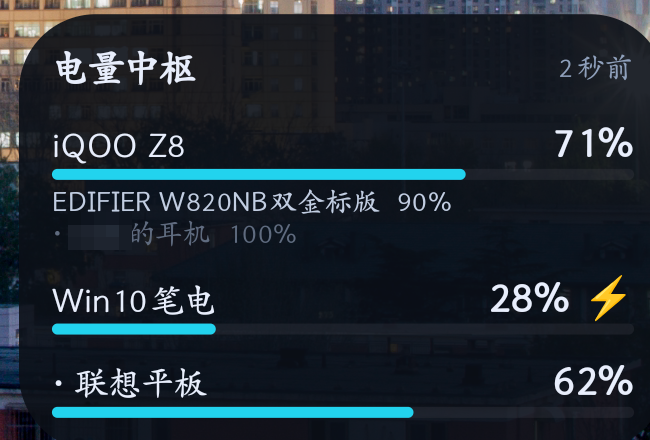
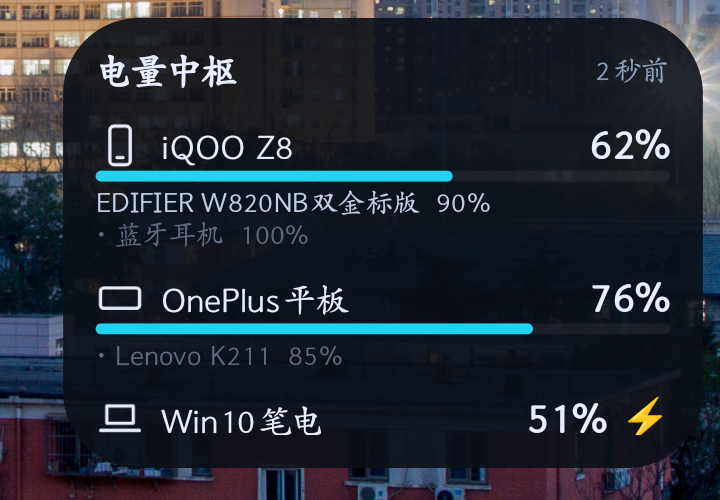
feat: 展开态与安卓小组件加类型图标；外设别名；保活教程；启动脚本幂等

Changed region(s): [[0.0, 0.0, 1.0, 1.0]]

diff --git a/android/probe/src/hub/probe/HubWidget.java b/android/probe/src/hub/probe/HubWidget.java
@@ -130,6 +130,14 @@ public class HubWidget extends AppWidgetProvider {
                 }
                 if (nameId != 0) rv.setTextColor(nameId, online ? 0xFFE8EEFC : 0xFF5F6B7F);
                 if (pctId != 0) rv.setTextColor(pctId, online ? 0xFFE8EEFC : 0xFF5F6B7F);
+
+                int icoId = rid(ctx, "w_ico" + i, "id");
+                if (icoId != 0) {
+                    String ic = iconName(name, -1);
+                    int res = ctx.getResources().getIdentifier(ic, "drawable", ctx.getPackageName());
+                    if (res != 0) rv.setImageViewResource(icoId, res);
+                    rv.setInt(icoId, "setColorFilter", online ? 0xFFE8EEFC : 0xFF5F6B7F);
+                }
                 if (barId != 0) {
                     rv.setViewVisibility(barId, android.view.View.VISIBLE);
                     rv.setProgressBar(barId, 100, Math.max(0, pct), false);
@@ -162,6 +170,37 @@ public class HubWidget extends AppWidgetProvider {
             }
             mgr.updateAppWidget(id, rv);
         }
+    }
+
+    private static String iconName(String name, int cls) {
+        int major = cls > 0 ? (cls & 0x1F00) : 0;
+        int minor = cls > 0 ? (cls & 0x00FC) : 0;
+        String s = name == null ? "" : name.toLowerCase();
+
+        if (major == 0x0500) {
+            if (minor == 0x40) return "ic_kb";
+            if (minor == 0x80) return "ic_mouse";
+            if (minor == 0xC0) return "ic_kb";
+        }
+        if (major == 0x0400) {
+            if (s.contains("buds") || s.contains("tws") || s.contains("豆")
+                    || s.contains("耳机") || s.contains("anc")) return "ic_earbuds";
+            return "ic_headphone";
+        }
+        if (major == 0x0100) return "ic_laptop";
+        if (major == 0x0200) return "ic_phone";
+
+        if (s.contains("平板") || s.contains("pad") || s.contains("tablet")) return "ic_tablet";
+        if (s.contains("笔电") || s.contains("笔记本") || s.contains("laptop")
+                || s.contains("win10") || s.contains("win11") || s.contains("电脑")) return "ic_laptop";
+        if (s.contains("iqoo") || s.contains("phone") || s.contains("手机")) return "ic_phone";
+        if (s.contains("耳机") || s.contains("buds") || s.contains("airpods")) return "ic_earbuds";
+        if (s.contains("头戴")) return "ic_headphone";
+        if (s.contains("键盘") || s.contains("keyboard")) return "ic_kb";
+        if (s.contains("鼠标") || s.contains("mouse")) return "ic_mouse";
+        if (s.matches(".*\\bk\\d{3}\\b.*")) return "ic_kb";
+        if (s.matches(".*\\bm\\d{3}\\b.*")) return "ic_mouse";
+        return "ic_generic";
     }
 
     private static String ago(long sec) {

diff --git a/ui/pc_widget.py b/ui/pc_widget.py
@@ -567,9 +567,11 @@ class Widget:
         b = n.get("battery") or {}
         pct, chg, ac = b.get("pct"), b.get("charging"), b.get("ac")
 
-        c.create_oval(x1 + self.X(11), y + self.X(10), x1 + self.X(17), y + self.X(16),
-                      fill=DIM if off else GREEN, outline="")
-        c.create_text(x1 + self.X(22), y + self.X(13), anchor="w",
+        # 设备类型图标（在线亮、离线灰）
+        draw_icon(c, icon_kind(n.get("name"), n.get("node")),
+                  x1 + self.X(10), y + self.X(13), self.X(13),
+                  DIM if off else TXT, max(1, self.X(1.1)))
+        c.create_text(x1 + self.X(29), y + self.X(13), anchor="w",
                       text=n.get("name", n.get("node")),
                       fill=DIM if off else TXT, font=self.F(11))
         state = "离线" if off else ("充电中" if chg else ("已充满" if ac else "放电中"))
@@ -599,9 +601,12 @@ class Widget:
         for p in per:
             pp = p.get("pct")
             conn = p.get("connected", True)
-            c.create_text(bx1, py, anchor="nw",
+            icol = PER if conn else PER_OFF
+            draw_icon(c, icon_kind(p.get("name"), p.get("id"), p.get("cls", -1)),
+                      bx1, py + self.X(6), self.X(10.5), icol, max(1, self.X(1)))
+            c.create_text(bx1 + self.X(15), py, anchor="nw",
                           text=("· " if not conn else "") + p.get("name", "?"),
-                          fill=PER if conn else PER_OFF, font=self.F(10))
+                          fill=icol, font=self.F(10))
             c.create_text(bx2, py, anchor="ne",
                           text="—" if pp is None else f"{pp}%",
                           fill=PER_VAL if conn else PER_OFF,

diff --git a/hub/hub.py b/hub/hub.py
@@ -49,11 +49,15 @@ DEFAULT_CONF = {
              "username": "", "password": ""},
     # 节点显示名覆盖：设备自己报的机型名太长时，在这里改成短名
     "aliases": {},
+    # 外设显示名覆盖：按外设 id（MAC 去掉冒号）改名，例如 {"6c1629715c35": "蓝牙耳机"}
+    "periph_aliases": {},
 }
 
 NODES: dict[str, dict] = {}
 # 节点显示名覆盖（config.json 的 aliases）
 ALIASES: dict[str, str] = {}
+# 外设显示名覆盖（config.json 的 periph_aliases）
+PERIPH_ALIASES: dict[str, str] = {}
 # 外设注册表：id -> {id,name,pct,connected,node,seen}
 # 规则：谁最后把它报成"已连接"，它就固定挂在那台设备下面（耳机在手机/平板间切换时自动搬家）
 PERIPH: dict[str, dict] = {}
@@ -198,7 +202,8 @@ def snapshot_locked() -> dict:
         if age > 7 * 86400 and not p.get("connected"):
             continue
         per_by_node.setdefault(p.get("node", ""), []).append({
-            "id": pid, "name": p.get("name", pid), "pct": p.get("pct"),
+            "id": pid, "name": PERIPH_ALIASES.get(pid) or p.get("name", pid),
+            "pct": p.get("pct"),
             "cls": p.get("cls", -1),
             "connected": bool(p.get("connected")), "age_sec": age,
         })
@@ -400,8 +405,9 @@ def main() -> int:
         return 0
 
     conf = load_conf(args.config)
-    global ALIASES
+    global ALIASES, PERIPH_ALIASES
     ALIASES = dict(conf.get("aliases") or {})
+    PERIPH_ALIASES = dict(conf.get("periph_aliases") or {})
     node = conf["node"]
     Handler.conf = conf
     load_store()

diff --git a/docs/keepalive.md b/docs/keepalive.md
@@ -1,0 +1,121 @@
+# 保活教程（Android）
+
+目标：让「电量中枢」在息屏、清理后台、重启之后**自动继续上报**。
+
+前台服务只是及格线。国产 ROM 会把前台服务也一起冻结，必须手动开白名单。
+
+---
+
+## 一、先理解为什么会被杀
+
+| 机制 | 表现 |
+|---|---|
+| 电池优化（Doze） | 息屏几分钟后网络被掐，`age_sec` 一直涨 |
+| 后台冻结 | 进程还在，但不再执行定时任务 |
+| 自启动拦截 | 重启后服务根本没起来 |
+| 一键清理 | 从最近任务划掉，进程被杀且不再自启 |
+
+前三个靠白名单解决，最后一个靠"锁定最近任务"。
+
+---
+
+## 二、通用四件套（所有国产 ROM 都有对应项）
+
+1. **允许自启动**
+2. **允许后台运行高耗电**
+3. **电池优化设为"不受限制"**
+4. **在最近任务里锁定卡片**
+
+---
+
+## 三、分机型路径
+
+### iQOO / vivo（OriginOS，实测 Android 15）
+
+| 步骤 | 路径 |
+|---|---|
+| 1. 自启动 | `i管家` → 应用管理 → 自启动 → 找到「电量中枢」→ 打开 |
+| 2. 后台高耗电 | 设置 → 电池 → 后台耗电管理 → 电量中枢 → **允许后台高耗电** |
+| 3. 电池优化 | 设置 → 应用 → 电量中枢 → 电池 → **不受限制** |
+| 4. 锁定任务 | 打开「最近任务」→ 长按（或下拉）电量中枢的卡片 → 点锁图标 |
+
+> OriginOS 的「i管家」是独立 App，权限和系统设置分开管，**两个地方都要设**。
+
+### OnePlus / OPPO（OxygenOS，实测 Android 16）
+
+| 步骤 | 路径 |
+|---|---|
+| 1. 自启动 | 设置 → 应用 → 自启动管理 → 电量中枢 → 打开 |
+| 2. 后台运行 | 设置 → 电池 → 应用耗电管理 → 电量中枢 → **允许后台运行** |
+| 3. 电池优化 | 同上 → 「智能省电」里把它排除 |
+| 4. 锁定任务 | 最近任务 → 卡片右上角 ⋮ → 锁定 |
+
+### 小米 / 红米（HyperOS）
+
+`设置 → 应用设置 → 应用管理 → 电量中枢 → 省电策略 → 无限制`
++ `自启动` 打开
++ 最近任务下拉卡片锁定
+
+### 华为 / 荣耀
+
+`设置 → 应用 → 电量中枢 → 耗电详情 → 应用启动管理 → 改为「手动管理」，三项全开`
+
+---
+
+## 四、开发者选项里的两个坑
+
+| 设置 | 必须 | 原因 |
+|---|---|---|
+| 「不保留活动」 | **关闭** | 打开后每次切后台都销毁 Activity |
+| 「后台进程限制」 | **标准** | 设成"最多 1 个进程"会直接把服务挤掉 |
+
+---
+
+## 五、验证是否真的保住了
+
+**方法一：看时间戳**
+
+在电脑上打开 `http://127.0.0.1:18080/`，看对应设备卡片上的「更新于 X 秒前」。
+
+- 正常：息屏 5 分钟后，`age_sec` 应该 **< 60 秒**（每 15 秒上报一次）
+- 被杀：`age_sec` 会一直涨到几百秒
+
+**方法二：看通知栏**
+
+服务活着时，通知栏常驻一条「电量中枢 · 本机 XX% / 外设 N 台」。这条消失就是被杀了。
+
+**方法三：重启手机**
+
+重启后 1 分钟内，看面板上该设备是否自动回到"在线"。
+
+---
+
+## 六、系统更新后必须复查
+
+大版本更新（尤其 OriginOS/OxygenOS）**会把第三方 App 的白名单重置**。
+
+更新完请重做第三节的第 1、2 条，其余一般保留。
+
+---
+
+## 七、症状对照表
+
+| 症状 | 最可能的原因 |
+|---|---|
+| 息屏几分钟后数据不动，亮屏立刻恢复 | 电池优化没设"不受限制" |
+| 重启后完全没数据，手动打开 App 才恢复 | 自启动 / 开机自启没开，或 `BOOT_COMPLETED` 被拦 |
+| 从最近任务划掉后再也不上报 | 没锁定卡片 |
+| 通知栏常驻通知消失 | 服务被系统杀了；检查是否被"一键加速"清掉 |
+| 装完 APK 后不更新 | 覆盖安装会杀进程；本项目已用 `MY_PACKAGE_REPLACED` 自启，若仍不更新说明自启动被拦 |
+
+---
+
+## 八、本项目已做的（代码层）
+
+- `foregroundServiceType="connectedDevice"` 前台服务 + 常驻低优先级通知
+- `START_STICKY`：被系统杀死后自动重建
+- `BOOT_COMPLETED`：开机自启
+- `MY_PACKAGE_REPLACED`：**覆盖安装后自启**（`START_STICKY` 救不了这个场景）
+- 上报心跳 10 分钟，中枢 30 分钟收不到就判离线（方便你发现它死了）
+
+代码只能做到这里，剩下的必须靠上面的白名单。

diff --git a/README.md b/README.md
@@ -94,7 +94,9 @@
 ### 6. 节点识别
 
 - 节点 id 由机型自动生成（`Build.MODEL`），所以**同一个 APK** 装到手机和平板不会互相覆盖；
-- 想改名不用重装：`config.json` 里 `"aliases": {"opd2513": "平板"}`。
+- 想改名不用重装：`config.json` 里
+  - `"aliases": {"opd2513": "平板"}` —— 改**设备**名
+  - `"periph_aliases": {"6c1629715c35": "蓝牙耳机"}` —— 改**外设**名（键是 MAC 去掉冒号）
 
 ### 7. 网络
 
@@ -109,6 +111,7 @@
 **PC 悬浮窗**（`ui/pc_widget.py`）
 
 - 无边框、置顶、半透明，**不占任务栏**（`overrideredirect` + `-toolwindow`，Alt+Tab 里也不出现）
+- 设备名和外设名前都有**类型图标**（手机/笔记本/平板/头戴/豆式/键盘/鼠标），在线亮、离线灰
 - 右上角 `─` 折叠成一条 30px 横条；`✕` 完全退出
 - 折叠条只显示**图标 + 电量**，按设备分组，组间有分隔线
 - 拖动移动，位置存 `ui/window.json`
@@ -118,7 +121,7 @@
 
 **Android 小组件**（`RemoteViews`）
 
-- 固定 3 行（手机 / 平板 / 电脑），每行"名字 + 百分比 + 进度条"，下面一行小字列外设
+- 固定 3 行（手机 / 平板 / 电脑），每行"**类型图标** + 名字 + 百分比 + 进度条"，下面一行小字列外设
 - 圆角引用系统的 `system_app_widget_background_radius`，和系统小组件一致
 - 断开的外设整行变灰；离线设备整行变灰 + `·` 前缀
 - 点一下打开网页面板
@@ -132,7 +135,8 @@
 - `START_STICKY`：被系统杀掉后自动重建
 - `BOOT_COMPLETED`：开机自启
 - `MY_PACKAGE_REPLACED`：**覆盖安装后自启**（这条很关键，`START_STICKY` 救不了装完被杀）
-- 仍需手动开系统白名单（见"已知局限 10"）
+- 仍需手动开系统白名单：**完整教程见 [docs/keepalive.md](docs/keepalive.md)**
+  （分 ROM 路径 / 验证方法 / 症状对照表）
 
 ---
 
